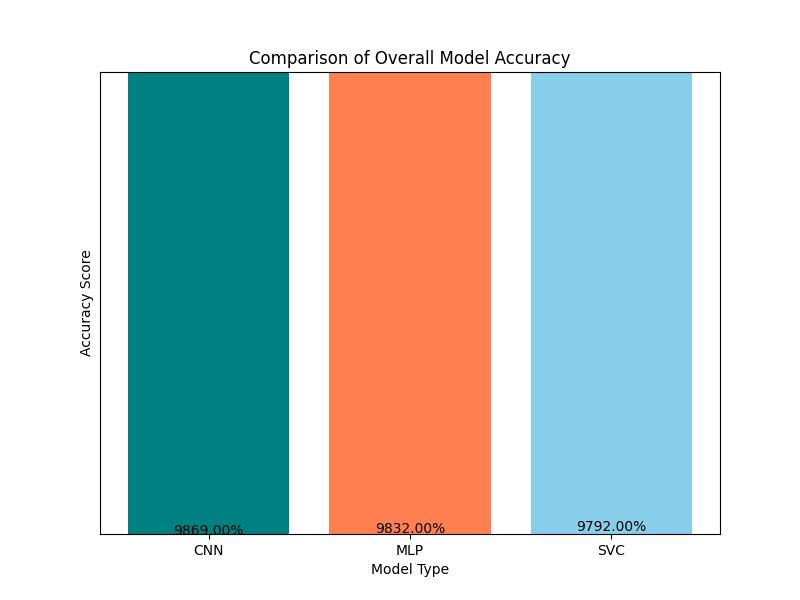
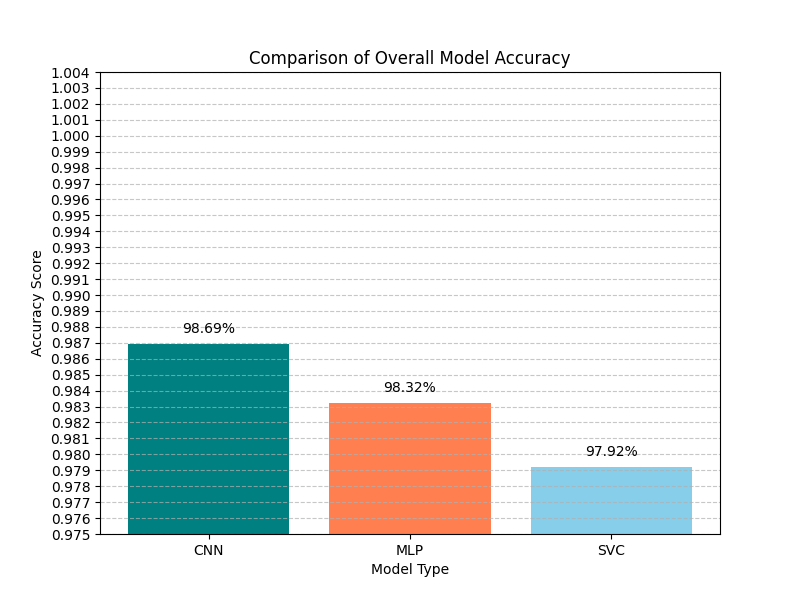
Bug fixed evaluation.py, Added fallback for if "percision" values are not parsed correctly, Changed accuracies values to factors so that they can be read properly by generated visual graphs

diff --git a/evaluate.py b/evaluate.py
@@ -6,6 +6,7 @@ import matplotlib.pyplot as plt
 from io import StringIO
 from enum import Enum
 import os
+import re
 
 def generate_and_save_report_plots(
     accuracy: float, 
@@ -59,15 +60,45 @@ def generate_and_save_report_plots(
     # Rename the first column, which contains the labels/metrics names
     df.rename(columns={df.columns[0]: 'label'}, inplace=True)
     df.set_index('label', inplace=True)
-    
     # Remove rows that are entirely NaN (often blank lines or headers)
     df.dropna(how='all', inplace=True)
     
+    # Fallback if 'precision' not parsed correctly
+    if 'precision' not in df.columns:
+        rows = []
+        pattern = re.compile(
+            r'^(?P<label>(\d|macro avg|weighted avg|micro avg))\s+'
+            r'(?P<precision>\d\.\d+)\s+'
+            r'(?P<recall>\d\.\d+)\s+'
+            r'(?P<f1_score>\d\.\d+)\s+'
+            r'(?P<support>\d+)$'
+        )
+
+        for line in report_text.splitlines():
+            line = line.strip()
+            m = pattern.match(line)
+            if m:
+                rows.append(m.groupdict())
+
+        if rows:
+            df = pd.DataFrame(rows)
+            df.rename(columns={'f1_score': 'f1-score'}, inplace=True)
+            df.set_index('label', inplace=True)
+            for col in ['precision', 'recall', 'f1-score']:
+                df[col] = pd.to_numeric(df[col], errors='coerce')
+            df['support'] = pd.to_numeric(df['support'], errors='coerce')
+        else:
+            print(f" Could not parse classification report for {model_name}")
+            return
+    
+
+
     # 3. Filter the DataFrame for Digit Classes and Aggregate Averages
     try:
         # Filter for the 10 digit classes (indices '0' through '9')
         # We use df.index.str.isdigit() to robustly find the digit rows
-        class_df = df[df.index].copy()
+        df.index = df.index.astype(str)
+        class_df = df[df.index.str.isdigit()].copy()
         
         # Convert metric columns to float, handling potential parsing errors
         for col in ['precision', 'recall', 'f1-score']:
@@ -87,18 +118,19 @@ def generate_and_save_report_plots(
     try:
         weighted_f1 = df.loc['weighted avg', 'f1-score']
     except KeyError:
-        weighted_f1 = accuracy/100 # Fallback if 'weighted avg' row was missed
-        plt.title(f'F1-Score per Digit Class for {model_name}')
-        plt.xlabel('Digit Class')
-        plt.ylabel('F1-Score')
-        plt.ylim(0.85, 1.0) # Set a sensible Y limit for high-accuracy models
-        plt.xticks(rotation=0)
-        plt.grid(axis='y', linestyle='--', alpha=0.7)
-        
-        plot1_path = os.path.join(save_dir, f'{model_name}_f1_per_class.png')
-        plt.savefig(plot1_path)
-        plt.close()
-        print(f"✅ Saved F1-Score per class plot to {plot1_path}")
+        weighted_f1 = accuracy # Fallback if 'weighted avg' row was missed
+
+    plt.title(f'F1-Score per Digit Class for {model_name}')
+    plt.xlabel('Digit Class')
+    plt.ylabel('F1-Score')
+    plt.ylim(0.85, 1.0) # Set a sensible Y limit for high-accuracy models
+    plt.xticks(rotation=0)
+    plt.grid(axis='y', linestyle='--', alpha=0.7)
+    
+    plot1_path = os.path.join(save_dir, f'{model_name}_f1_per_class.png')
+    plt.savefig(plot1_path)
+    plt.close()
+    print(f"✅ Saved F1-Score per class plot to {plot1_path}")
         
         
     # --- Visualization 2: Summary Metrics (Accuracy vs. Weighted F1) ---
@@ -113,7 +145,7 @@ def generate_and_save_report_plots(
         
     summary_data = {
         'Metric': ['Accuracy', 'Weighted F1-Score'],
-        'Value': [accuracy, weighted_f1]
+        'Value': [accuracy / 100.0, weighted_f1]
     }
     summary_df = pd.DataFrame(summary_data)
     
@@ -144,9 +176,7 @@ def generate_accuracy_plot(
     """
     
     model_names = [mt.value.upper() for mt in accuracy_data.keys()] # Changed to .upper() for labels
-    accuracies = list(accuracy_data.values())
-    for i in range(accuracies):
-        accuracies[i] = accuracies[i]/100
+    accuracies = [v / 100.0 for v in accuracy_data.values()]
     
     if not os.path.exists(save_dir):
         os.makedirs(save_dir)
